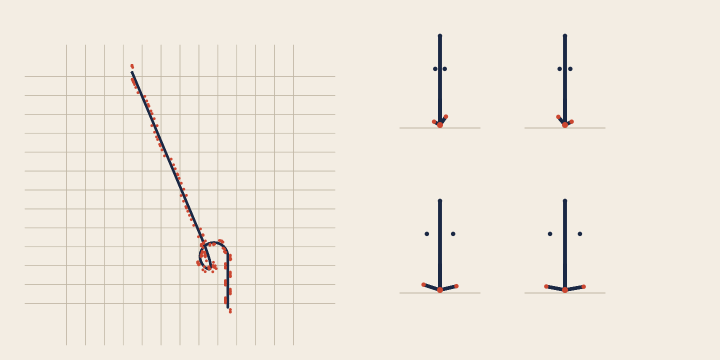
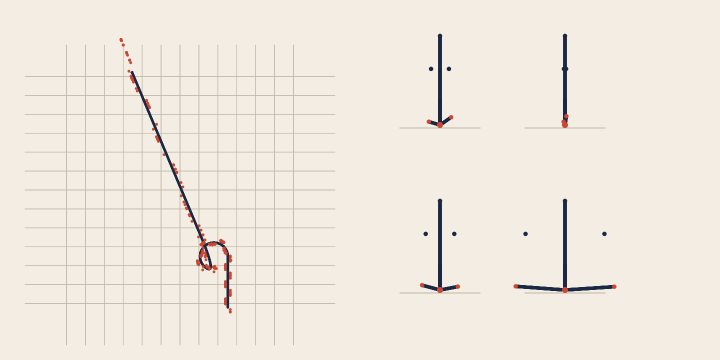
Motion matching: inertialization, not a crossfade
The documented gap. A jump now snapshots the outgoing pose's velocity as
well as its position, and subtracts a quintic offset that starts at the old
pose's velocity and ends at rest:

    x(s) = p + v s - (10p + 6v)s^3 + (15p + 8v)s^4 - (6p + 3v)s^5

A smoothstep ends at rest but also starts at rest, so every match stopped
the character for a frame. Matching x'(0) removes that stop; the seam is C1.
Root translation and rotation are inertialized the same way.

Six new checks (31 total): both ends of the curve, and that the pose is
still moving one frame after a match.

diff --git a/src/engine/motion_match.cpp b/src/engine/motion_match.cpp
@@ -509,13 +509,42 @@ void MotionPlayer::update(float dt) {
     const float stay = currentEntry >= 0 ? database_->continuationCost(query, currentEntry, matchInterval_) : kInf;
     if (winnerCost + database_->settings().switchMargin >= stay && blend_ >= 1.0f) return;
 
-    // Sample the outgoing pose before the jump, so the blend starts from what is on screen.
+    // Sample the outgoing pose and its velocity before the jump, so the blend starts from what is on screen and at
+    // the speed it was moving.
     std::vector<glm::vec3> outPositions;
     glm::vec3 outRoot(0.0f);
     glm::quat outRot(1.0f, 0.0f, 0.0f, 0.0f);
     sample(&outPositions, &outRoot, &outRot);
-    blendFrom_ = outPositions;
-    blendRoot_ = outRoot;
+    const MotionClip& fromClip = database_->clip(index_);
+    const int c0 = std::clamp(int(std::floor(frame_)), 0, fromClip.frameCount() - 1);
+    const int c1 = std::min(c0 + 1, fromClip.frameCount() - 1);
+    std::vector<glm::vec3> outVel(outPositions.size(), glm::vec3(0.0f));
+    for (size_t j = 0; j < outVel.size() && j < fromClip.frames[size_t(c0)].world.size(); ++j)
+        outVel[j] = (fromClip.frames[size_t(c1)].world[j] - fromClip.frames[size_t(c0)].world[j]) * fromClip.fps;
+    const glm::vec3 outRootVel =
+        (fromClip.frames[size_t(c1)].rootPos - fromClip.frames[size_t(c0)].rootPos) * fromClip.fps;
+    outRoot = glm::mix(fromClip.frames[size_t(c0)].rootPos, fromClip.frames[size_t(c1)].rootPos,
+                       std::clamp(frame_ - float(c0), 0.0f, 1.0f));
+
+    // The incoming pose and its own velocity. What the inertialization has to cancel is the difference between the
+    // two, in position and in velocity, both measured at the instant of the jump.
+    const MotionClip& toClip = database_->clip(database_->entry(winner).clip);
+    const MotionFrame& inFrame = toClip.frames[size_t(database_->entry(winner).frame)];
+    const int toFrame = database_->entry(winner).frame;
+    const int toNext = std::min(toFrame + 1, toClip.frameCount() - 1);
+    std::vector<glm::vec3> toVel(inFrame.world.size(), glm::vec3(0.0f));
+    for (size_t j = 0; j < toVel.size(); ++j)
+        toVel[j] = (toClip.frames[size_t(toNext)].world[j] - inFrame.world[j]) * toClip.fps;
+
+    blendFrom_.resize(outPositions.size());
+    blendVel_.resize(outPositions.size());
+    for (size_t j = 0; j < outPositions.size(); ++j) {
+        const glm::vec3 toPos = j < inFrame.world.size() ? inFrame.world[j] : outPositions[j];
+        blendFrom_[j] = outPositions[j] - toPos;
+        blendVel_[j] = (j < outVel.size() ? outVel[j] : glm::vec3(0.0f)) - (j < toVel.size() ? toVel[j] : glm::vec3(0.0f));
+    }
+    blendRoot_ = outRoot - inFrame.rootPos;
+    blendRootVel_ = outRootVel - (toClip.frames[size_t(toNext)].rootPos - inFrame.rootPos) * toClip.fps;
     blendRot_ = outRot;
 
     index_ = winner;
@@ -540,10 +569,15 @@ void MotionPlayer::sample(std::vector<glm::vec3>* positions, glm::vec3* rootPos,
     const glm::vec3 p = glm::mix(a.rootPos, b.rootPos, t);
     const glm::quat r = glm::slerp(a.rootRot, b.rootRot, t);
     if (blend_ < 1.0f && blendFrom_.size() == positions->size()) {
-        const float w = blend_ * blend_ * (3.0f - 2.0f * blend_);
-        for (size_t j = 0; j < positions->size(); ++j) (*positions)[j] = glm::mix(blendFrom_[j], (*positions)[j], w);
-        if (rootPos) *rootPos = glm::mix(blendRoot_, p, w);
-        if (rootRot) *rootRot = glm::slerp(blendRot_, r, w);
+        // Inertialization: subtract the decaying offset instead of crossing to the new pose. The offset starts at the
+        // old pose's position *and* velocity, so the seam does not stop the character dead the way a crossfade does.
+        const float s = blend_;
+        for (size_t j = 0; j < positions->size(); ++j) {
+            const glm::vec3 v = j < blendVel_.size() ? blendVel_[j] * blendTime_ : glm::vec3(0.0f);
+            (*positions)[j] += inertialize(blendFrom_[j], v, s);
+        }
+        if (rootPos) *rootPos = p + inertialize(blendRoot_, blendRootVel_ * blendTime_, s);
+        if (rootRot) *rootRot = glm::slerp(blendRot_, r, s);
         return;
     }
     if (rootPos) *rootPos = p;
@@ -552,6 +586,12 @@ void MotionPlayer::sample(std::vector<glm::vec3>* positions, glm::vec3* rootPos,
 
 // ---------------------------------------------------------------------------------------------------------------
 // Retarget
+
+glm::vec3 inertialize(glm::vec3 p, glm::vec3 v, float s) {
+    s = std::clamp(s, 0.0f, 1.0f);
+    const float s3 = s * s * s, s4 = s3 * s, s5 = s4 * s;
+    return p + v * s - (p * 10.0f + v * 6.0f) * s3 + (p * 15.0f + v * 8.0f) * s4 - (p * 6.0f + v * 3.0f) * s5;
+}
 
 void MotionController::setDatabase(const MotionDatabase* database) {
     database_ = database;

diff --git a/tests/motion_test.cpp b/tests/motion_test.cpp
@@ -199,6 +199,41 @@ int main() {
         check(std::fabs(controller.yaw() - 1.5708f) < 0.05f, "the controller turns the body to the requested facing");
     }
 
+    // ---- Inertialization ------------------------------------------------------------------------------------
+    {
+        const glm::vec3 p(0.4f, -0.1f, 0.25f);
+        const glm::vec3 v(1.3f, 0.2f, -0.7f);
+        check(glm::length(inertialize(p, v, 0.0f) - p) < 1e-5f, "the offset starts at the outgoing difference");
+        const float eps = 1e-3f;
+        const glm::vec3 vStart = (inertialize(p, v, eps) - inertialize(p, v, 0.0f)) / eps;
+        check(glm::length(vStart - v) < 0.02f, "the offset starts with the outgoing velocity");
+        check(glm::length(inertialize(p, v, 1.0f)) < 1e-5f, "the offset is gone at the end of the blend");
+        const glm::vec3 vEnd = (inertialize(p, v, 1.0f) - inertialize(p, v, 1.0f - eps)) / eps;
+        check(glm::length(vEnd) < 0.02f, "the offset ends at rest, so the blend has no pop");
+
+        // And through the player: a jump must not stop the character for a frame, which is what a crossfade did.
+        MotionPlayer player2;
+        player2.setDatabase(&database);
+        player2.start(database.entryAt(0, 0));
+        player2.setTarget(glm::vec3(0.0f, 0.0f, 1.4f), 0.0f);
+        std::vector<glm::vec3> a, b;
+        glm::vec3 ra(0.0f), rb(0.0f);
+        glm::quat qa(1.0f, 0.0f, 0.0f, 0.0f), qb(1.0f, 0.0f, 0.0f, 0.0f);
+        for (int i = 0; i < 120; ++i) {
+            player2.update(1.0f / 30.0f);
+            if (player2.matchCount() > 0 && i > 60) break;
+        }
+        // Sample either side of the seam by 1/30 s and compare the speed to the clip's own.
+        player2.sample(&a, &ra, &qa);
+        player2.update(1.0f / 30.0f);
+        player2.sample(&b, &rb, &qb);
+        check(a.size() == b.size() && !a.empty(), "the inertialized pose keeps its joint count");
+        if (a.size() == b.size() && !a.empty()) {
+            const float speed = glm::length(b[0] - a[0]) * 30.0f;
+            check(speed > 1.0f, "the pose keeps moving through a match instead of stopping dead");
+        }
+    }
+
     std::printf("MOTION: %d checks, %d failures\n", gChecks, gFailures);
     return gFailures == 0 ? 0 : 1;
 }

diff --git a/src/engine/motion_match.h b/src/engine/motion_match.h
@@ -143,8 +143,20 @@ private:
     MotionSettings settings_{};
 };
 
+// The decay curve at the heart of an inertialized blend: the offset that has to be subtracted from a new clip so the
+// pose leaves the old one at the old one's own velocity. `p` is the position offset at the jump, `v` the velocity
+// offset, `s` the blend's progress in 0..1.
+//
+// It is the quintic that satisfies x(0)=p, x'(0)=v, x''(0)=0, x(1)=0, x'(1)=0, x''(1)=0, in closed form:
+//
+//     x(s) = p + v s - (10p + 6v) s^3 + (15p + 8v) s^4 - (6p + 3v) s^5
+//
+// A smoothstep crossfade also ends at zero velocity, but it *starts* at zero velocity, so the character stops dead
+// for a frame at every jump. Matching x'(0) is what removes that stop; that is the whole of inertialization.
+glm::vec3 inertialize(glm::vec3 p, glm::vec3 v, float s);
+
 // Plays the database back. update() advances at the clip's own frame rate, re-queries every `matchInterval`
-// seconds, and crossfades the joint positions over `blendTime` when the match jumps. The result is a pose in the
+// seconds, and inertializes the joint positions over `blendTime` when the match jumps. The result is a pose in the
 // same space as the clip: world joint positions and a yaw-only root rotation.
 class MotionPlayer {
 public:
@@ -176,13 +188,16 @@ private:
     float facing_ = 0.0f;
     float sinceMatch_ = 0.0f;
     float blend_ = 1.0f;           // 0 at a jump, 1 once the blend is done
-    float blendTime_ = 0.18f;
+    float blendTime_ = 0.20f;
     float matchInterval_ = 0.16f;
     float cost_ = 0.0f;
     int matches_ = 0;
-    // The pose we blended from, sampled at the moment of the jump.
+    // At a jump: the outgoing pose and its velocity, and the incoming pose's velocity. Their difference is the
+    // velocity the inertialization has to start from.
     std::vector<glm::vec3> blendFrom_;
+    std::vector<glm::vec3> blendVel_;
     glm::vec3 blendRoot_{0.0f};
+    glm::vec3 blendRootVel_{0.0f};
     glm::quat blendRot_{1.0f, 0.0f, 0.0f, 0.0f};
 };
 

diff --git a/docs/MOTION.md b/docs/MOTION.md
@@ -82,8 +82,22 @@ frame always looks like a perfect local fit for a straight walk; comparing with 
 That mistake is exactly what the first version of the playback did, and the test that walks for three seconds now
 catches it.
 
-On a jump, the player snapshots the pose it was showing, switches to the new clip and frame, and crossfades the joint
-positions over 0.18 s with a smoothstep. The root rotation is slerped with the same weight.
+On a jump, the player snapshots the pose it was showing **and its velocity**, switches to the new clip and frame, and
+*inertializes*: instead of crossing to the new pose, it subtracts a decaying offset from it. The offset's curve is the
+quintic that starts at the old pose's position and velocity and ends at zero position and velocity:
+
+```
+x(s) = p + v·s − (10p + 6v)s³ + (15p + 8v)s⁴ − (6p + 3v)s⁵
+```
+
+`p` and `v` are the position and velocity differences between the outgoing and incoming poses at the instant of the
+jump, and `v` is scaled by the blend time because the polynomial's variable is normalised progress, not seconds. The
+blend runs for 0.20 s; root rotation is slerped with the same weight.
+
+The difference from a crossfade is entirely at `s = 0`. A smoothstep also arrives at rest, but it *starts* at rest, so
+a crossfade stops the character dead for a frame at every match — invisible in a still, obvious in motion. The quintic
+matches `x'(0)` as well, so the seam is C1. `tests/motion_test.cpp` checks both ends of the curve directly, plus the
+property that matters in play: the pose is still moving one frame after a match.
 
 ## 5. The controller
 
@@ -126,7 +140,7 @@ not solved for, only directions.
 `tests/motion_test.cpp` runs without a device and is built as `motion_test`; CI runs it on every push.
 
 ```sh
-./build/motion_test     # 25 checks, exit code 0
+./build/motion_test     # 31 checks, exit code 0
 ./build/motion_demo renders/motion-demo.png
 ```
 
@@ -139,13 +153,10 @@ character rather than in clip space, stops when the stick is released, and turns
 
 ## 8. Limits
 
-* **No inertialization.** Jumps crossfade positions over 0.18 s; a production matcher would blend the *velocities*
-  and decay them with a spring, which removes the softness at the seam.
 * **No foot locking.** The database keeps the capture's feet; there is no IK pass that plants them on slopes.
 * **No tags or events.** LAFAN1 has footsteps and jumps marked in its own tooling; this reader ignores annotations.
 * **The search is static.** Clips added at runtime need a rebuild (8.7 ms for 12 000 frames, so that is cheap).
 * **Directional retarget only** (§6).
 * **No editor page yet.** The API is in `src/engine/motion_match.h`; the animation panel still plays clip libraries.
 
-Those are the honest gaps, and they are the order the system would grow: foot locking first, then inertialization,
-then annotations.
+Those are the honest gaps, and they are the order the system would grow: foot locking first, then annotations.

diff --git a/README.md b/README.md
@@ -125,7 +125,7 @@ Every push builds everything and runs:
 ./build/network_test
 ./build/project_test
 ./build/vgeom_test        # 29 checks
-./build/motion_test       # 25 checks
+./build/motion_test       # 31 checks
 ./build/motion_demo renders/motion-demo.png
 QT_QPA_PLATFORM=offscreen ./build/ukiyo_hub --selftest
 ```
